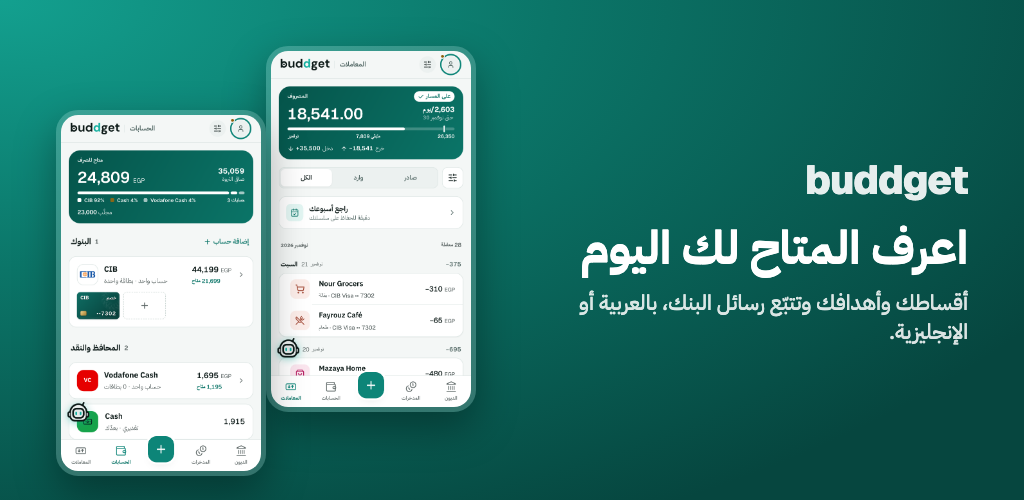
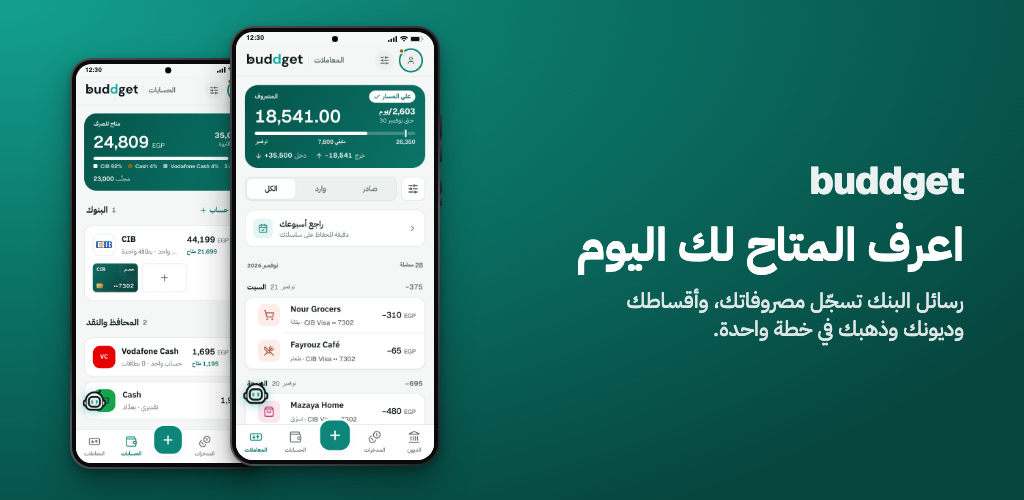
docs(store): real-device viewport captures (store-shots-v2), copy v4 rev 2 (differentiators instead of 'Arabic or English'), feature graphics with real phones

Changed region(s): [[0.0312, 0.03, 0.4688, 0.96], [0.5625, 0.45, 0.9688, 0.69], [0.7812, 0.33, 0.9688, 0.39]]

diff --git a/docs/launch/STORE_COPY_V4.md b/docs/launch/STORE_COPY_V4.md
@@ -1,5 +1,7 @@
 # Store copy v4 (2026-11-28)
 
+Revision 2 (owner): "in Arabic or English" is no longer used as a selling point; promo text, the description opener and Play short descriptions lead with real differentiators (bank texts that log themselves, installments and debts in the budget, any currency plus gold). Arabic stays as a feature bullet.
+
 Replaces `STORE_COPY_V3.md`. Written with the `copywriting` skill. Diagnosis A for the lead (V3 opens on what buddget does not do, so the argument is rebuilt around outcomes) and B for the facts (V3's accurate wording, Arabic-only Arabic, "Your first 30 days are Pro, no card", no prices). Follows `ASO_RESEARCH_2026-11.md` except where noted under Owner notes. Every count below is Unicode characters of the exact text inside the block, produced by a script from the same source as the text.
 
 ## Positioning
@@ -27,10 +29,10 @@ buddget: Budget & Expenses
 Spending Tracker, Installments
 ```
 
-**Promotional text** (157 / 170)
+**Promotional text** (151 / 170)
 
 ```text
-Know what's free to spend today, across every account. Installments, debts, goals and gold sit in one plan, in Arabic or English. Your first 30 days are Pro.
+Know what's free to spend today. Your bank texts log spending for you, and every installment, debt and goal, in any currency or gold, sits in one plan.
 ```
 
 **Keywords** (100 / 100)
@@ -39,12 +41,12 @@ Know what's free to spend today, across every account. Installments, debts, goal
 egp,sms,bnpl,salary,savings,debt,goal,gold,bill,money,receipt,arabic,cash,aed,sar,kwd,qar,instalment
 ```
 
-**Description** (3420 / 4000)
+**Description** (3411 / 4000)
 
 ```text
 Know what you can spend today, with rent, bills and goals already set aside.
 
-buddget shows one figure you can act on, Free to spend, worked out from your accounts, cards, installments, debts and goals. Set money aside inside the account where it actually sits, and the figure moves with every expense. Use it in Arabic or English, in more than ten currencies from Egyptian pounds to riyals and dirhams, plus gold.
+buddget shows one figure you can act on, Free to spend, worked out from your accounts, cards, installments, debts and goals. Set money aside inside the account where it actually sits, and the figure moves with every expense. It works in more than ten currencies, from Egyptian pounds to riyals and dirhams, and counts gold too.
 
 It runs on what you add and the bank texts you choose to share. Your bank login stays with your bank.
 
@@ -122,10 +124,10 @@ buddget: Budget & Expenses
 Spending Tracker, Installments
 ```
 
-**Promotional text** (157 / 170)
+**Promotional text** (151 / 170)
 
 ```text
-Know what's free to spend today, across every account. Installments, debts, goals and gold sit in one plan, in Arabic or English. Your first 30 days are Pro.
+Know what's free to spend today. Your bank texts log spending for you, and every installment, debt and goal, in any currency or gold, sits in one plan.
 ```
 
 **Keywords** (96 / 100)
@@ -134,12 +136,12 @@ Know what's free to spend today, across every account. Installments, debts, goal
 planner,manager,payday,income,loan,lend,pocket,voice,scan,zakat,dirham,riyal,pound,egypt,uae,owe
 ```
 
-**Description** (3420 / 4000)
+**Description** (3411 / 4000)
 
 ```text
 Know what you can spend today, with rent, bills and goals already set aside.
 
-buddget shows one figure you can act on, Free to spend, worked out from your accounts, cards, installments, debts and goals. Set money aside inside the account where it actually sits, and the figure moves with every expense. Use it in Arabic or English, in more than ten currencies from Egyptian pounds to riyals and dirhams, plus gold.
+buddget shows one figure you can act on, Free to spend, worked out from your accounts, cards, installments, debts and goals. Set money aside inside the account where it actually sits, and the figure moves with every expense. It works in more than ten currencies, from Egyptian pounds to riyals and dirhams, and counts gold too.
 
 It runs on what you add and the bank texts you choose to share. Your bank login stays with your bank.
 
@@ -219,10 +221,10 @@ Name, subtitle, promotional text, description and What's New match English (U.K.
 مصاريف وأقساط من رسائل البنك
 ```
 
-**Promotional text** (130 / 170)
+**Promotional text** (122 / 170)
 
 ```text
-اعرف المتاح لك للإنفاق اليوم في كل حساباتك. أقساطك وديونك وأهدافك وذهبك في خطة واحدة، بالعربية أو الإنجليزية. أول 30 يومًا لك برو.
+اعرف المتاح لك للإنفاق اليوم. رسائل البنك تسجّل مصروفاتك تلقائيًا، وأقساطك وديونك وأهدافك بأي عملة أو بالذهب في خطة واحدة.
 ```
 
 **Keywords** (100 / 100)
@@ -231,12 +233,12 @@ Name, subtitle, promotional text, description and What's New match English (U.K.
 مصروف,جنيه,ريال,درهم,تقسيط,قسط,ادخار,ديون,أهداف,فواتير,فلوس,راتب,ذهب,دخل,حسابات,إيصال,شهري,زكاة,سلفة
 ```
 
-**Description** (2935 / 4000)
+**Description** (2921 / 4000)
 
 ```text
 اعرف كم يمكنك أن تنفق اليوم، بعد أن يُخصَّص نصيب الإيجار والفواتير والأهداف.
 
-يعرض لك بادجت رقمًا واحدًا تعتمد عليه، هو المتاح للإنفاق، محسوبًا من حساباتك وبطاقاتك وأقساطك وديونك وأهدافك. خصّص المال داخل الحساب الذي يوجد فيه فعلًا، ويتغيّر الرقم مع كل مصروف. بالعربية أو الإنجليزية، وبأكثر من عشر عملات من الجنيه المصري إلى الريال والدرهم، والذهب أيضًا.
+يعرض لك بادجت رقمًا واحدًا تعتمد عليه، هو المتاح للإنفاق، محسوبًا من حساباتك وبطاقاتك وأقساطك وديونك وأهدافك. خصّص المال داخل الحساب الذي يوجد فيه فعلًا، ويتغيّر الرقم مع كل مصروف. ويعمل بأكثر من عشر عملات من الجنيه المصري إلى الريال والدرهم، ويحسب الذهب أيضًا.
 
 يعمل بادجت بما تضيفه أنت وبرسائل البنك التي تختار مشاركتها، وتبقى بيانات دخولك إلى البنك عند بنكك.
 
@@ -308,18 +310,18 @@ Name, subtitle, promotional text, description and What's New match English (U.K.
 buddget: Budget & Expenses
 ```
 
-**Short description** (80 / 80)
+**Short description** (78 / 80)
 
 ```text
-Know what's free to spend today. Bank SMS tracking, installments, goals, Arabic.
+Know what's free to spend today. Bank SMS logs itself. Installments and goals.
 ```
 
-**Full description** (3449 / 4000)
+**Full description** (3440 / 4000)
 
 ```text
 Know what you can spend today, with rent, bills and goals already set aside.
 
-buddget shows one figure you can act on, Free to spend, worked out from your accounts, cards, installments, debts and goals. Set money aside inside the account where it actually sits, and the figure moves with every expense. Use it in Arabic or English, in more than ten currencies from Egyptian pounds to riyals and dirhams, plus gold.
+buddget shows one figure you can act on, Free to spend, worked out from your accounts, cards, installments, debts and goals. Set money aside inside the account where it actually sits, and the figure moves with every expense. It works in more than ten currencies, from Egyptian pounds to riyals and dirhams, and counts gold too.
 
 It runs on what you add and the bank SMS you choose to share. Your bank login stays with your bank.
 
@@ -391,18 +393,18 @@ Plus many fixes.
 بادجت: مصاريف وميزانية وأقساط
 ```
 
-**Short description** (74 / 80)
+**Short description** (79 / 80)
 
 ```text
-اعرف المتاح لك اليوم. تتبع تلقائي من رسائل البنك، وأقساط وأهداف، بالعربية.
+اعرف المتاح لك اليوم. رسائل البنك تُسجَّل تلقائيًا، وأقساطك وأهدافك بخطة واحدة.
 ```
 
-**Full description** (2985 / 4000)
+**Full description** (2971 / 4000)
 
 ```text
 اعرف كم يمكنك أن تنفق اليوم، بعد أن يُخصَّص نصيب الإيجار والفواتير والأهداف.
 
-يعرض لك بادجت رقمًا واحدًا تعتمد عليه، هو المتاح للإنفاق، محسوبًا من حساباتك وبطاقاتك وأقساطك وديونك وأهدافك. خصّص المال داخل الحساب الذي يوجد فيه فعلًا، ويتغيّر الرقم مع كل مصروف. بالعربية أو الإنجليزية، وبأكثر من عشر عملات من الجنيه المصري إلى الريال والدرهم، والذهب أيضًا.
+يعرض لك بادجت رقمًا واحدًا تعتمد عليه، هو المتاح للإنفاق، محسوبًا من حساباتك وبطاقاتك وأقساطك وديونك وأهدافك. خصّص المال داخل الحساب الذي يوجد فيه فعلًا، ويتغيّر الرقم مع كل مصروف. ويعمل بأكثر من عشر عملات من الجنيه المصري إلى الريال والدرهم، ويحسب الذهب أيضًا.
 
 يعمل بادجت بما تضيفه أنت وبرسائل البنك التي تختار مشاركتها، وتبقى بيانات دخولك إلى البنك عند بنكك.
 
